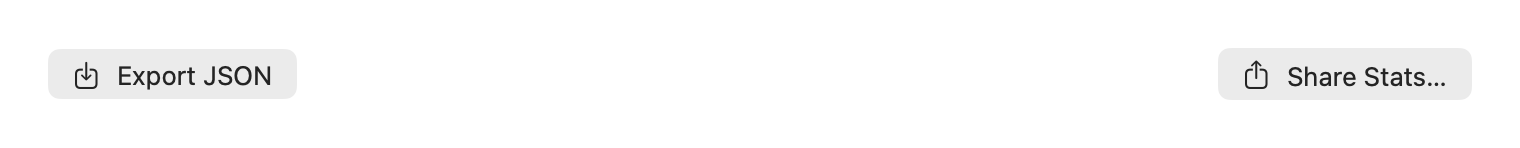
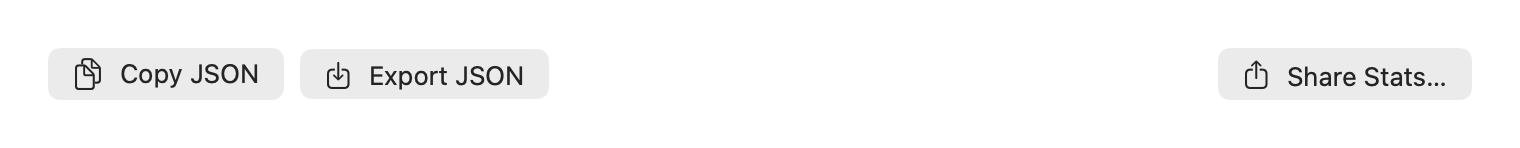
Keep Copy JSON alongside the Usage & Spend save panel.

Changed region(s): [[0.0309, 0.3784, 0.1855, 0.6216], [0.2164, 0.4324, 0.3711, 0.6216]]

diff --git a/Tests/CodexBarTests/SpendDashboardExportTests.swift b/Tests/CodexBarTests/SpendDashboardExportTests.swift
@@ -1,3 +1,4 @@
+import AppKit
 import Foundation
 import Testing
 @testable import CodexBar
@@ -14,7 +15,7 @@ struct SpendDashboardExportTests {
     }
 
     @Test
-    func `export writes pretty JSON to a file instead of requiring the pasteboard`() throws {
+    func `export writes pretty JSON to a file`() throws {
         let now = Date(timeIntervalSince1970: 1_784_179_200)
         let model = SpendDashboardModel.build(
             inputs: [
@@ -58,6 +59,44 @@ struct SpendDashboardExportTests {
         let json = try #require(String(bytes: data, encoding: .utf8))
         #expect(json.contains("\n"))
         #expect(json.contains("\"provenance\""))
+    }
+
+    @MainActor
+    @Test
+    func `copy writes JSON to the pasteboard`() throws {
+        let now = Date(timeIntervalSince1970: 1_784_179_200)
+        let model = SpendDashboardModel.build(
+            inputs: [
+                SpendDashboardModel.ProviderInput(
+                    id: "cursor",
+                    provider: .cursor,
+                    displayName: "Cursor",
+                    snapshot: CostUsageTokenSnapshot(
+                        sessionTokens: 10,
+                        sessionCostUSD: 1,
+                        last30DaysTokens: 10,
+                        last30DaysCostUSD: 1,
+                        historyDays: 7,
+                        costProvenance: .listPriceEstimate,
+                        daily: [
+                            CostUsageDailyReport.Entry(
+                                date: "2026-07-16",
+                                inputTokens: 8,
+                                outputTokens: 2,
+                                totalTokens: 10,
+                                costUSD: 1,
+                                modelsUsed: nil,
+                                modelBreakdowns: nil),
+                        ],
+                        updatedAt: now)),
+            ],
+            requestedDays: 7,
+            now: now)
+        let data = try SpendDashboardJSONExporter.encodedData(model: model, hiddenSourceIDs: ["cursor"])
+        let json = try #require(String(bytes: data, encoding: .utf8))
+        NSPasteboard.general.clearContents()
+        #expect(SpendDashboardJSONExporter.copyToPasteboard(model: model, hiddenSourceIDs: ["cursor"]))
+        #expect(NSPasteboard.general.string(forType: .string) == json)
     }
 
     @MainActor

diff --git a/Sources/CodexBar/PreferencesSpendDashboardPane.swift b/Sources/CodexBar/PreferencesSpendDashboardPane.swift
@@ -393,6 +393,12 @@ struct SpendDashboardPane: View {
     private var shareAction: some View {
         HStack {
             Button {
+                self.copyJSON()
+            } label: {
+                Label(L("Copy JSON"), systemImage: "doc.on.doc")
+            }
+            .disabled(self.controller.model.groups.isEmpty)
+            Button {
                 self.exportJSON()
             } label: {
                 Label(L("Export JSON"), systemImage: "square.and.arrow.down")
@@ -407,6 +413,12 @@ struct SpendDashboardPane: View {
             }
             .disabled(self.sharePayload == nil)
         }
+    }
+
+    private func copyJSON() {
+        _ = SpendDashboardJSONExporter.copyToPasteboard(
+            model: self.controller.model,
+            hiddenSourceIDs: self.settings.spendDashboardHiddenSourceIDs)
     }
 
     private func exportJSON() {
@@ -1012,6 +1024,18 @@ enum SpendDashboardJSONExporter {
 
     static func write(_ data: Data, to url: URL) throws {
         try data.write(to: url, options: .atomic)
+    }
+
+    @MainActor
+    static func copyToPasteboard(model: SpendDashboardModel, hiddenSourceIDs: [String]) -> Bool {
+        guard let data = try? self.encodedData(model: model, hiddenSourceIDs: hiddenSourceIDs),
+              let json = String(bytes: data, encoding: .utf8)
+        else {
+            NSSound.beep()
+            return false
+        }
+        NSPasteboard.general.clearContents()
+        return NSPasteboard.general.setString(json, forType: .string)
     }
 
     @MainActor

diff --git a/Tests/CodexBarTests/ProviderArchitectureGatekeeperTests.swift b/Tests/CodexBarTests/ProviderArchitectureGatekeeperTests.swift
@@ -2201,7 +2201,7 @@ struct ProviderArchitectureGatekeeperTests {
             reason: "This exact app-runtime bridge coordinates provider-owned state through the shared controller."),
         AllowedProviderConstruct(
             path: "Sources/CodexBar/PreferencesSpendDashboardPane.swift",
-            line: 428,
+            line: 440,
             anchor: ".count { $0.provider == .codex }",
             expectedProviderIDs: ["codex"],
             expectedReferenceCount: 3,

diff --git a/Tests/CodexBarTests/SpendDashboardScreenshotRenderTests.swift b/Tests/CodexBarTests/SpendDashboardScreenshotRenderTests.swift
@@ -123,6 +123,9 @@ final class SpendDashboardScreenshotRenderTests: XCTestCase {
     private static func exportActionsChrome() -> some View {
         HStack {
             Button {} label: {
+                Label("Copy JSON", systemImage: "doc.on.doc")
+            }
+            Button {} label: {
                 Label("Export JSON", systemImage: "square.and.arrow.down")
             }
             Spacer()
